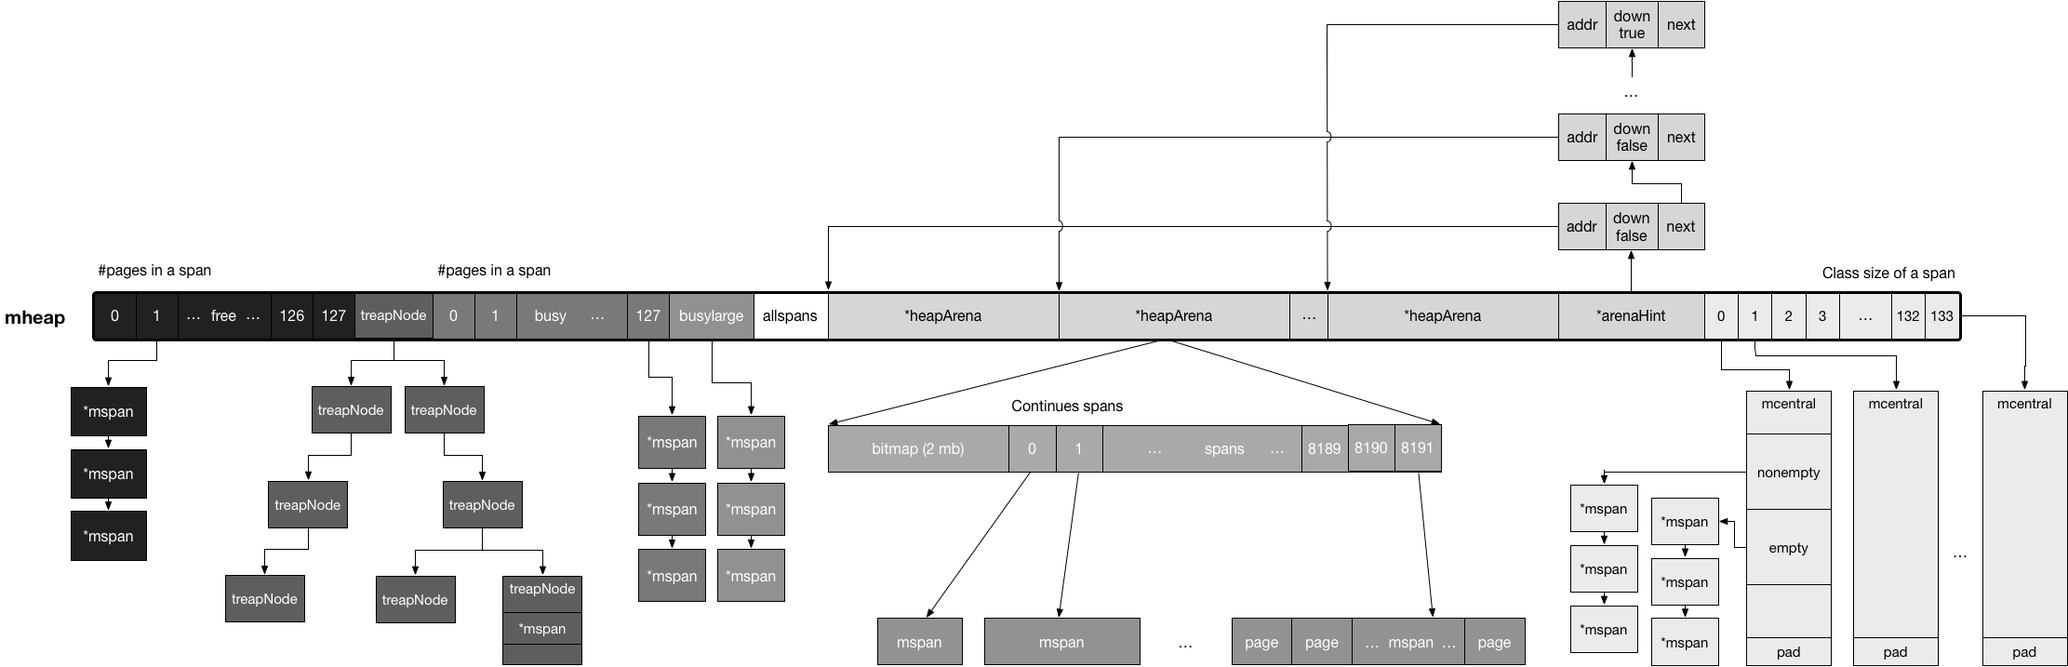
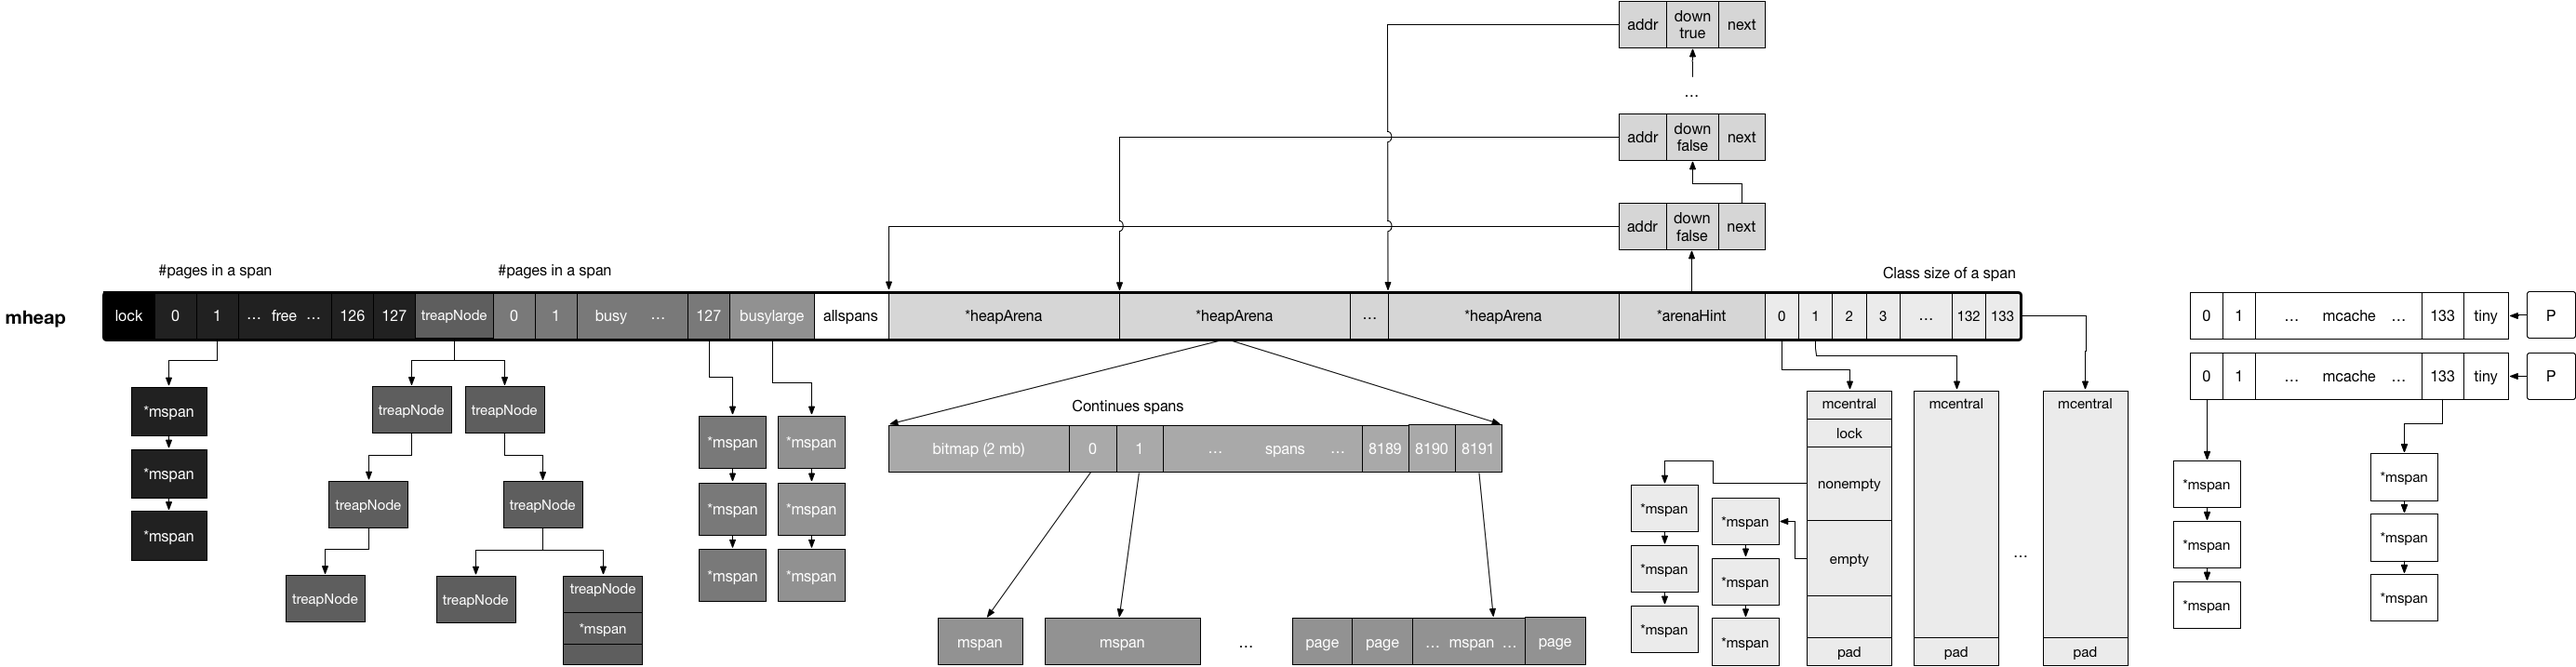
update: mem

diff --git a/gosrc/1.11.5/runtime/malloc.go b/gosrc/1.11.5/runtime/malloc.go
@@ -9,7 +9,7 @@
 //
 // 主分配器工作在 page 上。小规模的分配（小于等于 32KB）被舍入为大约 70
 // 个大小的 class 中，每个 class 都有一组自己完全相同大小的对象。
-// 任何可用的内存 page 可以拆分为一个固定大小 class 的集合，
+// 任何可用的内存 page 可以拆分为一个固定大小等级的集合，
 // 然后使用 free bitmap 进行管理。
 //
 // 分配器的数据结构为:
@@ -785,35 +785,28 @@ func mallocgc(size uintptr, typ *_type, needzero bool) unsafe.Pointer {
 	noscan := typ == nil || typ.kind&kindNoPointers != 0
 	if size <= maxSmallSize {
 		if noscan && size < maxTinySize {
-			// 小型分配器
+			// 微型分配器 (tiny)
 			//
-			// Tiny allocator combines several tiny allocation requests
-			// into a single memory block. The resulting memory block
-			// is freed when all subobjects are unreachable. The subobjects
-			// must be noscan (don't have pointers), this ensures that
-			// the amount of potentially wasted memory is bounded.
+			// 微型分配器结合了多个的微型分配请求，并将其合并到一个单一的内存块中。
+			// 微型分配器将几个微小的分配请求组合到一个内存块中。
+			// 当所有子对象都无法访问时，将释放生成的内存块。子对象必须是 noscan（没有指针），
+			// 这可以确保可能浪费的内存量是有界的。
 			//
-			// Size of the memory block used for combining (maxTinySize) is tunable.
-			// Current setting is 16 bytes, which relates to 2x worst case memory
-			// wastage (when all but one subobjects are unreachable).
-			// 8 bytes would result in no wastage at all, but provides less
-			// opportunities for combining.
-			// 32 bytes provides more opportunities for combining,
-			// but can lead to 4x worst case wastage.
-			// The best case winning is 8x regardless of block size.
+			// 用于组合的内存块的大小（maxTinySize）是可调的。
+			// 当前设置为 16 个字节，这与 2x 最坏情况的内存浪费
+			//（当除了一个子对象之外的所有子对象都无法访问时）有关。
+			// 8 字节虽然可以完全没有浪费，但会提供更少的组合机会。
+			// 32 字节提供了更多的组合机会，但可能导致 4 倍最坏情况下的浪费。
+			// 无论块大小如何，最好的做法是采用 8 倍。
 			//
-			// Objects obtained from tiny allocator must not be freed explicitly.
-			// So when an object will be freed explicitly, we ensure that
-			// its size >= maxTinySize.
+			// 从微型分配器获得的对象不得明确释放。
+			// 因此，当显式释放对象时，我们确保其大小 >= maxTinySize。
 			//
-			// SetFinalizer has a special case for objects potentially coming
-			// from tiny allocator, it such case it allows to set finalizers
-			// for an inner byte of a memory block.
+			// SetFinalizer 对于可能来自微型分配器的对象有一个特殊情况，
+			// 它允许为内存块的内部字节设置 finalizer。
 			//
-			// The main targets of tiny allocator are small strings and
-			// standalone escaping variables. On a json benchmark
-			// the allocator reduces number of allocations by ~12% and
-			// reduces heap size by ~20%.
+			// 微型分配器的主要目标是小字符串和独立的逃逸变量。
+			// 在 json 性能测试中，分配器将分配次数减少了大约 12％，并将堆大小占用减少了大约 20％。
 			off := c.tinyoffset
 			// Align tiny pointer for required (conservative) alignment.
 			if size&7 == 0 {

diff --git a/gosrc/1.11.5/runtime/stack.go b/gosrc/1.11.5/runtime/stack.go
@@ -14,53 +14,42 @@ import (
 栈布局管理参数
 包括运行时（6c编译）和链接器（gcc编译）
 
- To cut one
-instruction from the check sequence for functions with tiny frames,
-the stack is allowed to protrude StackSmall bytes below the stack
-guard.  Functions with large frames don't bother with the check and
-always call morestack.  The sequences are (for amd64, others are
-similar):
-每个 goroutine 的 g->stackguard 被设置为从栈底增长的 StackGurard 字节。
-每个函数都会比较栈指针和g->stackguard来检查是否存在溢出。
+每个 goroutine 的 g.stackguard 被设置为从栈底增长的 StackGurard 字节。
+每个函数都会比较栈指针和 g.stackguard 来检查是否存在溢出。
 为了从具有小帧函数的检查序列中取出一条指令，允许栈在 stackguard 下延展
-StackSmall 字节。具有大帧的函数不会影响检查，总是调用更多的栈。
-序列为(amd64，其他类似)：
+StackSmall 字节。具有大帧的函数不会影响检查，总是调用 morestack。
+序列为 (amd64，其他类似)：
 
 	guard = g->stackguard
-	frame = function's stack frame size
-	argsize = size of function arguments (call + return)
+	frame = 函数的栈帧大小
+	argsize = 函数参数的大小 (call+return)
 
-	stack frame size <= StackSmall:
+	栈帧大小 <= StackSmall:
 		CMPQ guard, SP
 		JHI 3(PC)
 		MOVQ m->morearg, $(argsize << 32)
 		CALL morestack(SB)
 
-	stack frame size > StackSmall but < StackBig
+	栈帧大小 > StackSmall 但 < StackBig
 		LEAQ (frame-StackSmall)(SP), R0
 		CMPQ guard, R0
 		JHI 3(PC)
 		MOVQ m->morearg, $(argsize << 32)
 		CALL morestack(SB)
 
-	stack frame size >= StackBig:
+	栈帧大小 >= StackBig:
 		MOVQ m->morearg, $((argsize << 32) | frame)
 		CALL morestack(SB)
 
-The bottom StackGuard - StackSmall bytes are important: there has
-to be enough room to execute functions that refuse to check for
-stack overflow, either because they need to be adjacent to the
-actual caller's frame (deferproc) or because they handle the imminent
-stack overflow (morestack).
+底部的 StackGuard - StackSmall 字节非常重要:
+必须有足够的空间来执行拒绝检查栈溢出的函数，要么因为它们需要与实际调用者的帧（deferproc）相邻，
+或者要么因为它们处理即将发生的栈溢出（morestack）。
 
-For example, deferproc might call malloc, which does one of the
-above checks (without allocating a full frame), which might trigger
-a call to morestack.  This sequence needs to fit in the bottom
-section of the stack.  On amd64, morestack's frame is 40 bytes, and
-deferproc's frame is 56 bytes.  That fits well within the
-StackGuard - StackSmall bytes at the bottom.
-The linkers explore all possible call traces involving non-splitting
-functions to make sure that this limit cannot be violated.
+例如，deferproc 可能会调用 malloc，它会在不分配完整帧的情况下执行上述检查，
+从而可能会触发 morestack 调用。该序列需要适应栈的底部的区域。
+在 amd64 上，morestack 的帧为 40 个字节，deferproc 的帧是 56 个字节。
+这非常适合 StackGuard - StackSmall 字节。
+链接器会探测涉及不可拆分函数的所有可能的调用轨迹，以确保不会违反此限制。
 */
 
 const (

diff --git a/content/5-mem/basic.md b/content/5-mem/basic.md
@@ -1,10 +1,11 @@
 # 5 内存管理: 基本知识
 
+[TOC]
+
 到目前为止，我们已经分析了 Go 程序如何启动、初始化需要进行的关键步骤、初始化结束后，
 主 goroutine 如何被调度器进行调度。现在我们来看 Go 中另一重要的关键组件：内存分配器。
 
-Go 的内存分配器基于 Thread-Cache Malloc (tcmalloc) [1]，tcmalloc 为每个线程实现了一个本地缓存，区分了小对象（小于 32kb）
-和大对象分配两种分配类型，其管理的内存单元称为 span。
+Go 的内存分配器基于 Thread-Cache Malloc (tcmalloc) [1]，tcmalloc 为每个线程实现了一个本地缓存，区分了小对象（小于 32kb）和大对象分配两种分配类型，其管理的内存单元称为 span。
 
 我们不再介绍更多 tcmalloc 的具体细节，因为 Go 的内存分配器与 tcmalloc 存在一定差异。
 这个差异来源于 Go 语言被设计为没有显式的内存分配与释放，
@@ -18,30 +19,20 @@ Go 的内存分配器基于 Thread-Cache Malloc (tcmalloc) [1]，tcmalloc 为每
 
 Go 的内存分配器主要包含以下几个核心组件：
 
-- fixalloc：用于分配固定大小的堆外内存，基于自由表实现
+- heapArena: 保留整个虚拟地址空间
 - mheap：分配的堆，在页大小为 8KB 的粒度上进行管理
 - mspan：是 mheap 上管理的一连串的页
 - mcentral：搜集了给定大小等级的所有 span
-- mcache：是一个 per-P 的缓存。
-- mstats：用于分配器的统计
+- mcache：为 per-P 的缓存。
 
 其中页是向操作系统申请内存的最小单位，目前设计为 8kb。
 
-每一个结构虽然不都像是调度器 M/P/G 结构那样的大部头，
-但初次阅读这些结构时想要理清他们之间的关系还是比较麻烦的。
-图 1 展示了所有结构的关系。
-
-![](../../images/mem-struct.png)
-
-_图 1: Go 内存管理结构总览_
+每一个结构虽然不都像是调度器 M/P/G 结构那样的大部头，但初次阅读这些结构时想要理清他们之间的关系还是比较麻烦的。传统意义上的栈被 Go 的运行时霸占，不开放给用户态代码；而传统意义上的堆内存，又被 Go 运行时划分为了两个部分，一个是 Go 运行时自身所需的堆内存，即堆外内存；另一部分则用于 Go 用户态代码所使用的堆内存，也叫做 Go 堆。Go 堆负责了用户态对象的存放以及 goroutine 的执行栈。
 
 ### Arena
 
 #### heapArena
 
-传统意义上的栈被 Go 的运行时霸占，不开放给用户态代码；
-而传统意义上的堆内存，又被 Go 运行时划分为了两个部分，
-一个是 Go 运行时自身所需的堆内存，即堆外内存；另一部分则用于 Go 用户态代码所使用的堆内存，也叫做 Go 堆。
 Go 堆被视为由多个 arena 组成，每个 arena 在 64 位机器上位 64MB，且起始地址与 arena 的大小对齐，
 所有的 arena 覆盖了整个 Go 堆的地址空间。
 
@@ -68,6 +59,8 @@ type heapArena struct {
 
 #### arenaHint
 
+结构比较简单，是 arenaHint 链表的节点结构，保存了arena 的起始地址、是否为最后一个 arena，以及下一个 arenaHint 指针。
+
 ```go
 //go:notinheap
 type arenaHint struct {
@@ -91,15 +84,17 @@ type arenaHint struct {
 type mspan struct { // 双向链表
 	next *mspan     // 链表中的下一个 span，如果为空则为 nil
 	prev *mspan     // 链表中的前一个 span，如果为空则为 nil
-	...
+    (...)
 	startAddr uintptr // span 的第一个字节的地址，即 s.base()
 	npages    uintptr // 一个 span 中的 page 数量
-	...
+    (...)
+	freeindex uintptr
+    (...)
 	allocCount  uint16     // 分配对象的数量
 	spanclass   spanClass  // 大小等级与 noscan (uint8)
 	incache     bool       // 是否被 mcache 使用
 	state       mSpanState // mspaninuse 等等信息
-	...
+	(...)
 }
 ```
 
@@ -111,10 +106,13 @@ type mspan struct { // 双向链表
 ```go
 //go:notinheap
 type mcache struct {
-	... 
+	(...)
+	tiny             uintptr
+	tinyoffset       uintptr
+	local_tinyallocs uintptr
 	alloc [numSpanClasses]*mspan // 用来分配的 spans，由 spanClass 索引
 	stackcache [_NumStackOrders]stackfreelist
-	...
+	(...)
 }
 ```
 
@@ -151,13 +149,13 @@ type mheap struct {
 	freelarge mTreap                   // 长度大于 _MaxMHeapList 的空闲树堆 (treap)
 	busy      [_MaxMHeapList]mSpanList // 128, 给定长度的大 span 的繁忙列表
 	busylarge mSpanList                // 长度大于 _MaxMHeapList 的大 span 的繁忙列表
-	...
+	(...)
 	allspans []*mspan // 所有 spans 从这里分配出去
-	...
+	(...)
 	arenas [1 << arenaL1Bits]*[1 << arenaL2Bits]*heapArena
-	...
+	(...)
 	arenaHints *arenaHint
-	...
+	(...)
 	central [numSpanClasses]struct {
 		mcentral mcentral
 		pad      [sys.CacheLineSize - unsafe.Sizeof(mcentral{})%sys.CacheLineSize]byte
@@ -171,9 +169,39 @@ type mheap struct {
 	specialprofilealloc   fixalloc // specialprofile* 分配器
 	speciallock           mutex    // 特殊记录分配器的锁
 	arenaHintAlloc        fixalloc // arenaHints 分配器
-	...
+	(...)
 }
 ```
+
+## 分配概览
+
+### 小对象分配
+
+当对一个小对象（<32kB）分配内存时，会将该对象所需的内存大小调整到某个能够容纳该对象的大小等级（size class），并查看 mcache 中对应等级的 mspan，通过扫描 mspan 的 `freeindex` 来确定是否能够进行分配。
+
+当没有可分配的 mspan 时，会从 mcentral 中获取一个所需大小空间的新的 mspan，从 mcentral 中分配会对其进行枷锁，但一次性获取整个 span 的过程均摊了对 mcentral 加锁的成本。
+
+如果 mcentral 的 mspan 也为空时，则它也会发生增长，从而从 mheap 中获取一连串的页，作为一个新的 mspan 进行提供。而如果 mheap 仍然为空，或者没有足够大的对象来进行分配时，则会从操作系统中分配一组新的页（至少 1MB），从而均摊与操作系统沟通的成本。
+
+### 微对象分配
+
+对于过小的微对象（<16B），它们的分配过程与小对象的分配过程基本类似，但是是直接存储在 mcache 上，并由其以 16B 的块大小直接进行管理和释放。
+
+### 大对象分配
+
+大对象分配非常粗暴，不与 mcache 和 mcentral 沟通，直接绕过并通过 mheap 进行分配。
+
+## 总结
+
+图 1 展示了所有结构的关系。
+
+![](../../images/mem-struct.png)
+
+_图 1: Go 内存管理结构总览_
+
+heap 最中间的灰色区域 arena 覆盖了 Go 程序的整个虚拟内存，每个 arena 包括一段 bitmap 和一段指向连续 span 的指针；每个 span 由一串连续的页组成；每个 arena 的起始位置通过 arenaHint 进行记录。
+
+分配的顺序从右向左，代价也就越来越大。小对象和微对象优先从白色区域 per-P 的 mcache 分配 span，这个过程不需要加锁（白色）；若失败则会从 mheap 持有的 mcentral 加锁获得新的 span，这个过程需要加锁，但只是局部（灰色）；若仍失败则会从右侧的 busy 和 free 进行分配，这个过程需要对整个 heap 进行加锁，代价最大（黑色）。
 
 ## 进一步阅读的参考文献
 

diff --git a/content/4-sched/stack.md b/content/4-sched/stack.md
@@ -1,0 +1,7 @@
+# 4 调度器: goroutine 执行栈管理
+
+
+
+## 许可
+
+[Go under the hood](https://github.com/changkun/go-under-the-hood) | CC-BY-NC-ND 4.0 & MIT &copy; [changkun](https://changkun.de)

diff --git a/content/5-mem/init.md b/content/5-mem/init.md
@@ -1,5 +1,7 @@
 # 5 内存管理: 初始化
 
+[TOC]
+
 栈和内存分配器是最先完成初始化的，我们先来看这两个初始化的过程。
 
 ### 栈初始化
